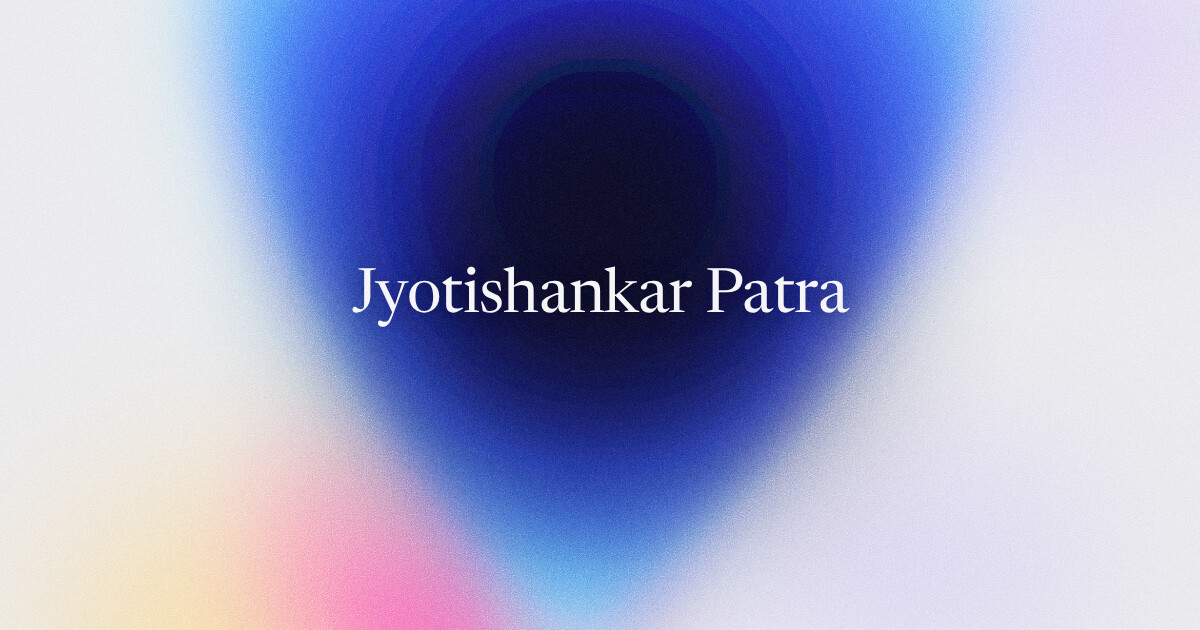
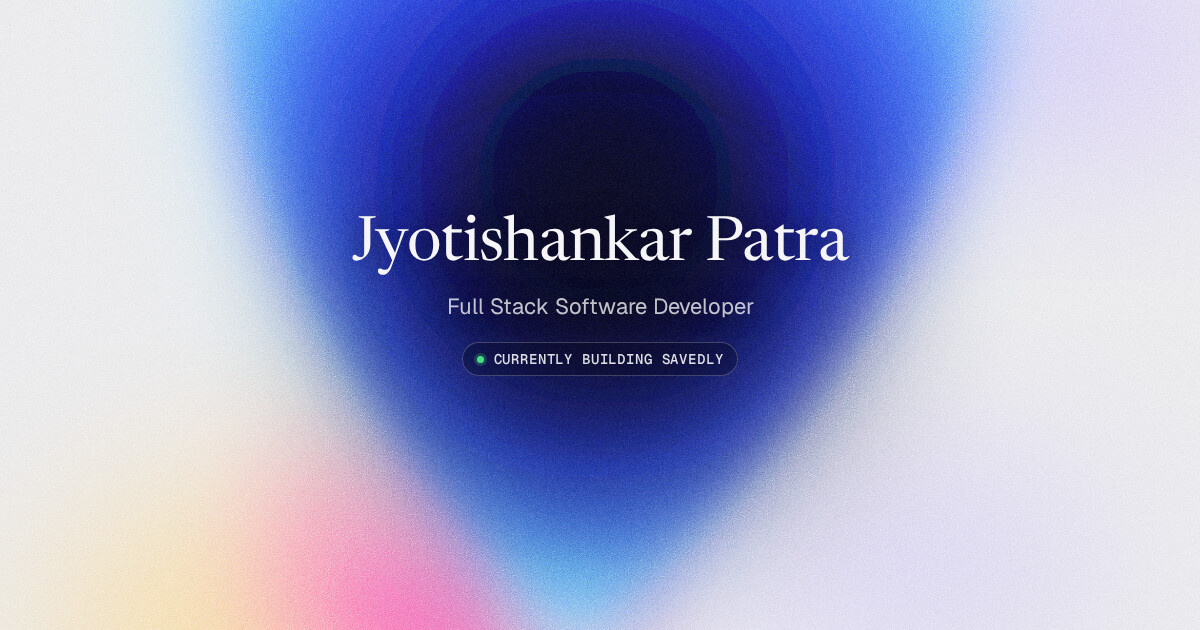
feat: add role and current project to the social preview image
The preview card now reads "Full Stack Software Developer" and "Currently
building Savedly" under the name, with matching image alt text.

Changed region(s): [[0.2775, 0.3317, 0.7092, 0.5127], [0.37, 0.5429, 0.6167, 0.6032]]

diff --git a/index.html b/index.html
@@ -17,7 +17,7 @@
     <meta property="og:image" content="https://suvam.me/og.jpg" />
     <meta property="og:image:width" content="1200" />
     <meta property="og:image:height" content="630" />
-    <meta property="og:image:alt" content="Jyotishankar Patra's portfolio" />
+    <meta property="og:image:alt" content="Jyotishankar Patra — Full Stack Software Developer, currently building Savedly" />
 
     <meta name="twitter:card" content="summary_large_image" />
     <meta name="twitter:creator" content="@devsuvam1" />
